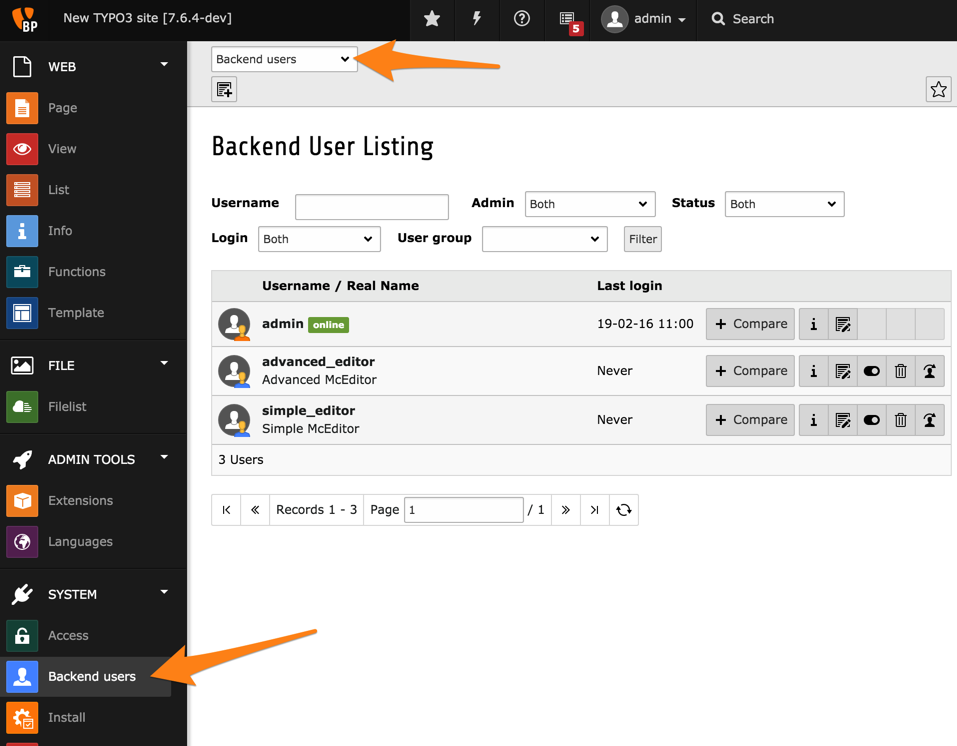
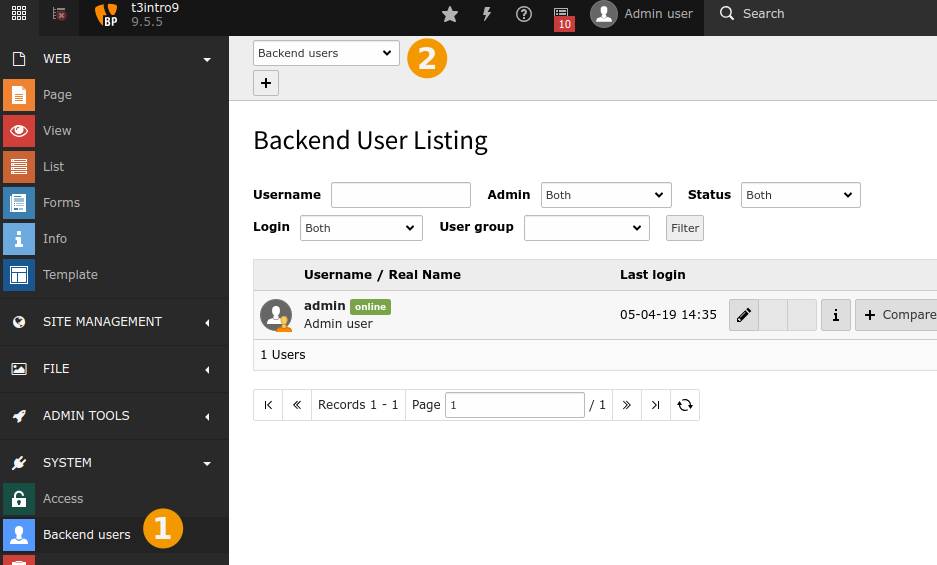
Adapt chapter "User Management" for TYPO3 9
- the current introduction package no longer creates users, so a description
  has been added (this can easily be removed again later)
- GUI has changed, update screenshots
- rename title from "User Management" to "Backend User Management"

Changed region(s): [[0.0, 0.0, 1.0, 1.0], [0.7118, 0.692, 0.7428, 0.7522]]

diff --git a/Documentation/UserManagement/BackendUsers/Index.rst b/Documentation/UserManagement/BackendUsers/Index.rst
@@ -11,26 +11,45 @@ module.
 
 .. figure:: ../../Images/BackendBackendUsersModule.png
    :alt: The Backend Users module
+   :class: with-shadow
 
 
 The module makes it possible to search and filter users. They
 can also be edited, deleted or disabled.
 
-As you can see in the list, the Introduction Package is shipped with
-two users on top of the admin users created during the installation
-process. Let's take a look at what these other users can do.
+Default Editors in the Introduction Package
+===========================================
 
+The Introduction Package should create two default editors and
+groups for you: "simple_editor" and "advanced_editor".
+
+.. hint::
+
+   The following steps assume that the editors "simple_editor"
+   and "advanced_editor exist". In some versions of the
+   "Introduction Package", `they will not get created
+   <https://github.com/FriendsOfTYPO3/introduction/issues/21>`__.
+
+   If these users do not exist in your installation, please
+   follow the steps in :ref:`user-management-create-default-editors`
+   before you continue.
+
+.. _simulate-user:
+
+Simulate User
+=============
 
 .. _user-management-simple-editor:
 
 "simple\_editor"
-================
+----------------
 
 The simplest way to check out another user (when one is an
 administrator) is to use the "simulate user" feature:
 
 .. figure:: ../../Images/BackendBackendUsersSimulate.png
    :alt: The last action icon lets us simulate another user
+   :class: with-shadow
 
 
 And here is what "simple\_editor" sees when accessing the
@@ -38,6 +57,7 @@ TYPO3 CMS backend:
 
 .. figure:: ../../Images/BackendSimpleEditorUser.png
    :alt: The backend view for the "simple\_editor"
+   :class: with-shadow
 
 
 As you can see, this user only has access to the "Page" module.
@@ -50,18 +70,20 @@ normally reads "Logout").
 
 .. figure:: ../../Images/BackendBackendUsersSimulateExit.png
    :alt: Exiting the backend user simulation
+   :class: with-shadow
 
 
 .. _user-management-advanced-editor:
 
 "advanced\_editor"
-==================
+------------------
 
 Now try doing the same with the "advanced\_editor". You should
 see the following after switching user:
 
 .. figure:: ../../Images/BackendAdvancedEditorUser.png
    :alt: The backend view for the "advanced\_editor"
+   :class: with-shadow
 
 The "advanced\_editor" is allowed to use more modules than
 "simple\_editor" but doesn't have any access to the page tree.
@@ -75,6 +97,7 @@ for a good exercise for changing user rights in the next chapters.
 
    .. figure:: ../../Images/BackendBackendUsersList.png
       :alt: Viewing backend users in the List module
+      :class: with-shadow
 
 .. _user-management-system-maintainers:
 

diff --git a/Documentation/UserManagement/BackendUsers/CreateDefaultEditors.rst b/Documentation/UserManagement/BackendUsers/CreateDefaultEditors.rst
@@ -1,0 +1,105 @@
+:orphan:
+
+.. include:: ../../Includes.txt
+
+.. _user-management-create-default-editors:
+
+====================
+Create Default Users
+====================
+
+Create simple_editor
+====================
+
+Creating a new user and group is handled extensively in
+:ref:`creating-a-new-user-for-the-introduction-site`.
+
+Here, you will create 2 new users, using the already
+existing groups (created by the "Introduction Package").
+
+
+.. rst-class:: bignums
+
+1. Enter the "Backend users" module
+
+2. Click on the `+`: "Create new record"
+
+   .. figure:: ../../Images/UserManagementCreateNewUser.png
+      :alt: Create a new editor
+      :class: with-shadow
+
+      Create a new backend user
+
+3. Fill out some fields.
+
+   * **Username:** simple_editor
+   * **Password:** *choose some password*
+   * **Group:** Select "Simple editors" in the "Available Items"
+   * **Name:** Simple Editor
+
+   .. figure:: ../../Images/UserManagementCreateNewUserSimpleEditor.png
+      :alt: Fill out fields for the new backend user
+      :class: with-shadow
+
+4. Press save (top)
+
+5. Activate the backend user
+
+   .. figure:: ../../Images/BackendEditorUnhide.png
+      :alt: Activate editor
+      :class: with-shadow
+
+You have created a user with the already existing group
+"Simple editors".
+
+Create "advanced_editor"
+========================
+
+Now, create another user "advanced_editor". Use the group "Advanced Editors".
+
+Change DB Mount for Group "Simple Editors"
+==========================================
+
+The group "Simple Editors" should have the page "Content Examples" set as
+"DB Mounts" under "Mounts and Workspaces".
+
+.. rst-class:: bignums
+
+1. Select "Backend user groups" in the top
+
+2. Click on the group "Simple editors" (or the edit pencil)
+
+3. Select the tab "Mounts and Workspaces"
+
+4. Check
+
+   If you see the page "Congratulations" in DB Mounts, you should continue,
+   if you see "Content Examples", you are done and can abort by selecting
+   "Close" in the top.
+
+5. Click on "Congratulation" and the garbage pail to remove this.
+
+6. Click on the file icon "Browse for records"
+
+7. Select the page "Content Examples"
+
+8. Click Save
+
+.. figure:: ../../Images/BackendGroupDbMount.png
+   :class: with-shadow
+   :alt: Change DB Mount
+
+   Change DB Mount
+
+
+What did we just do?
+
+We changed the DB mount from "Congratulations"
+(which was the start page) to "Content Examples". The editor should
+only see and edit the pages starting with "Content Examples". You will
+see the result in the next step.
+
+Next
+====
+
+Continue with :ref:`simulate-user`

diff --git a/Documentation/UserManagement/Groups/Index.rst b/Documentation/UserManagement/Groups/Index.rst
@@ -23,10 +23,7 @@ module:
 
 
 We can see two groups that obviously correspond to our users
-("simple" and "advanced"). Furthermore there is a "All users"
-group which is a sub-group of the two others. This means that all
-permissions set for the "All users" groups will be shared with both
-"Advanced editors" users and "Simple editors" users.
+("simple" and "advanced").
 
 To view which user is part of each group, the easiest is to click
 on the "information" action icon. A pop-up will open with detailed

diff --git a/Documentation/UserManagement/GroupPermissions/Index.rst b/Documentation/UserManagement/GroupPermissions/Index.rst
@@ -78,7 +78,7 @@ Page Types
 
 This field restricts which page types are available to members
 of the group. Explanations about the various page types are
-found in the Editors Guide.
+found in the :ref:`Editors Guide: <t3editors:pages-types>`.
 
 .. figure:: ../../Images/BackendBackendGroupEditPageTypes.png
    :alt:

diff --git a/Documentation/UserManagement/Index.rst b/Documentation/UserManagement/Index.rst
@@ -3,9 +3,9 @@
 
 .. _user-management:
 
-===============
-User Management
-===============
+=======================
+Backend User Management
+=======================
 
 We saw earlier that TYPO3 CMS enforces a strict separation of
 so-called "frontend" and "backend". The same is true for users:
